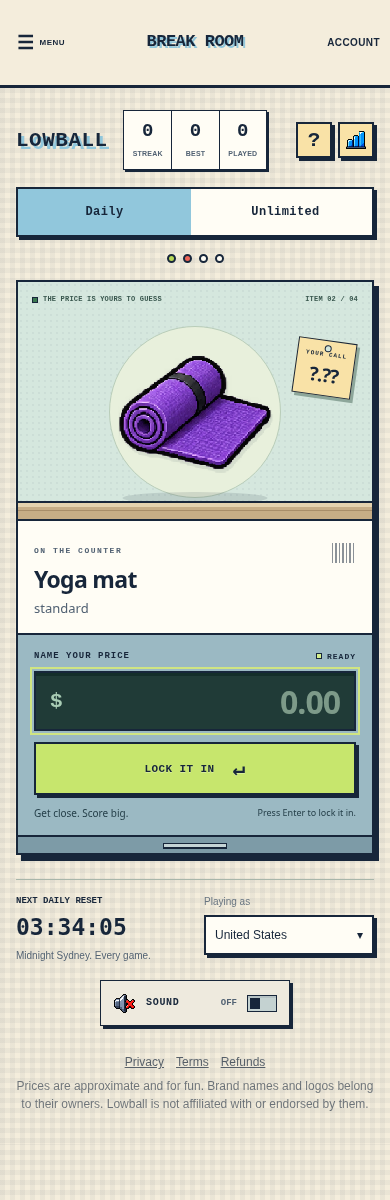
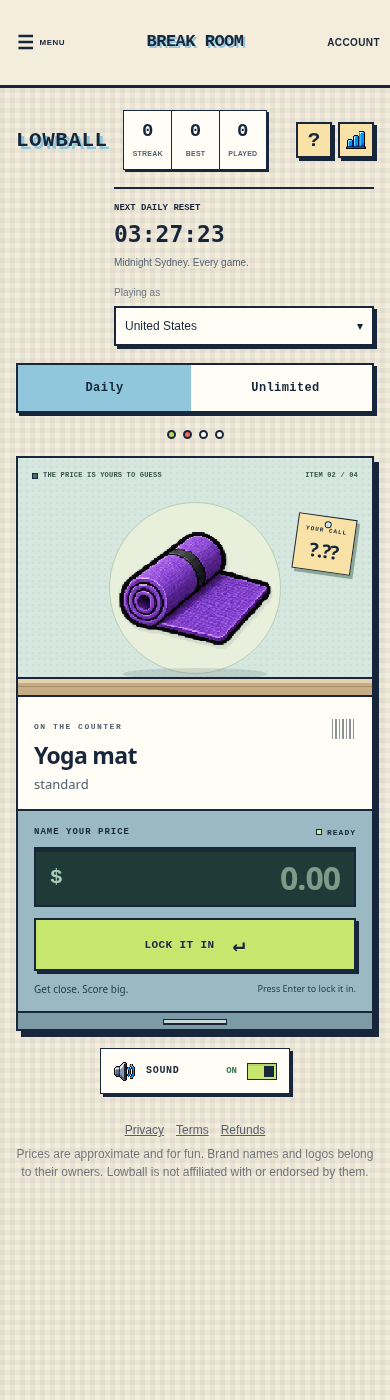
Keep Lowball centred with reset and region in a top-right rail

diff --git a/games/lowball/engine/index.html b/games/lowball/engine/index.html
@@ -608,6 +608,19 @@
 
   </header>
 
+  <section class="session-settings" aria-label="Daily reset and price region">
+  <aside class="live-reset" id="nextDaily" aria-label="Daily reset">NEXT DAILY RESET<strong data-daily-countdown>--:--:--</strong><p>Midnight Sydney. Every game.</p><span class="new-daily-ready" hidden>New daily ready. Tap to play</span></aside>
+
+  <div class="country-row">
+    <span class="country-label">Playing as</span>
+    <div class="cselect" id="cselect">
+      <button type="button" class="cselect-btn" id="cselectBtn" aria-haspopup="listbox" aria-expanded="false"><span id="cselectLabel">Australia</span></button>
+      <ul class="cselect-list" id="cselectList" role="listbox" tabindex="-1" hidden></ul>
+    </div>
+    <select id="countrySelect" hidden></select>
+  </div>
+  </section>
+
   <div class="mode-toggle">
     <button class="mode-btn active" id="normalModeBtn">Daily<span class="rounds"> (4 rounds)</span></button>
     <button class="mode-btn" id="unlimitedModeBtn">Unlimited</button>
@@ -671,18 +684,7 @@
     </div>
   </div>
 
-  <section class="session-settings" aria-label="Daily reset and price region">
-  <aside class="live-reset" id="nextDaily" aria-label="Daily reset">NEXT DAILY RESET<strong data-daily-countdown>--:--:--</strong><p>Midnight Sydney. Every game.</p><span class="new-daily-ready" hidden>New daily ready. Tap to play</span></aside>
 
-  <div class="country-row">
-    <span class="country-label">Playing as</span>
-    <div class="cselect" id="cselect">
-      <button type="button" class="cselect-btn" id="cselectBtn" aria-haspopup="listbox" aria-expanded="false"><span id="cselectLabel">Australia</span></button>
-      <ul class="cselect-list" id="cselectList" role="listbox" tabindex="-1" hidden></ul>
-    </div>
-    <select id="countrySelect" hidden></select>
-  </div>
-  </section>
 
   <button type="button" class="sound-btn" id="soundBtn">Sound: on</button>
 

diff --git a/games/lowball/engine/counter.css b/games/lowball/engine/counter.css
@@ -57,3 +57,9 @@ header{order:0;align-self:stretch}.mode-toggle{order:1;width:100%;align-self:str
 @media(max-width:650px){body{padding:22px 16px}.wrap{gap:17px}.session-settings{gap:18px;padding-top:16px}.session-settings .live-reset{font-size:9px}.session-settings .live-reset strong{font-size:23px}.session-settings .live-reset p{font-size:10px;line-height:1.5}.session-settings .country-label{font-size:10px}.session-settings .cselect-btn{font-size:12px;padding:11px 9px}.session-settings .country-row{gap:8px}.session-settings .cselect-list{font-size:12px}}
 @media(max-width:360px){body{padding-left:12px;padding-right:12px}.session-settings{gap:12px}.session-settings .live-reset{font-size:8px}.session-settings .live-reset strong{font-size:21px}.session-settings .cselect-btn{font-size:11px;padding:11px 8px}}
 .session-settings .live-reset{order:0}.session-settings .country-row{order:1}
+/* A separate top-right utility rail keeps the game itself on the viewport centre line. */
+.wrap{position:relative}
+.session-settings{order:1;grid-template-columns:minmax(0,1fr);align-self:flex-end;width:min(260px,100%);gap:17px;border:0;padding:0;margin:0}
+.session-settings .country-row{max-width:none;justify-self:stretch}.session-settings .live-reset{border-top:2px solid #17263a;padding-top:14px}
+.mode-toggle{order:2}.progress-dots{order:3}.card{order:4}
+@media(min-width:1100px){.wrap{--lowball-column:min(760px,calc(100vw - 448px));max-width:var(--lowball-column)}.session-settings{position:absolute;top:0;left:calc(100% + 24px);width:min(240px,calc((100vw - var(--lowball-column))/2 - 48px))}.mode-toggle{order:1}.progress-dots{order:2}.card{order:3}}

diff --git a/README.md b/README.md
@@ -109,7 +109,7 @@ Run `ARCADE_TEST_URL=http://127.0.0.1:8015 node tests/lowball-art.cjs` against a
 
 ### Lowball counter and Stake tabletop
 
-Lowball's active playing surface is styled by `games/lowball/engine/counter.css`: a large item display on a shop shelf, printed product label, cash-register price input, and a receipt reveal with a stamped verdict and perforated paper edge. Existing generated PNGs, prices, regions, score calculations, and saved rounds are retained. Personal stats sit in the header between the title and utility buttons. Lowball now uses one centred column: the countdown and region selector share a balanced row below the playing surface, and the sound toggle sits at the bottom centre above the legal footer. Enter submits a price and focuses Next; Enter again moves to the next item without skipping the receipt.
+Lowball's active playing surface is styled by `games/lowball/engine/counter.css`: a large item display on a shop shelf, printed product label, cash-register price input, and a receipt reveal with a stamped verdict and perforated paper edge. Existing generated PNGs, prices, regions, score calculations, and saved rounds are retained. Personal stats sit in the header between the title and utility buttons. Lowball now uses one centred column: the countdown sits in a separate top-right rail with the region selector below it, while the sound toggle stays directly below the game at the centre. On narrower screens the settings rail moves above the game to fit without horizontal scrolling. Enter submits a price and focuses Next; Enter again moves to the next item without skipping the receipt.
 
 Stake's active surface is styled by `games/stake/table.css`: textured green felt with a stitched edge, paper question cards and category tabs, a three-chip betting dock, and chip-stack feedback. The countdown is integrated into the question card and turns coral in the last ten seconds. The score tally, 30-second deadline, timeout penalties, Daily/Unlimited state, and shared popup design remain intact. Chips stay circular at every screen width. Keyboard betting/answering retains focus inside the game, and the mode tabs support arrow keys, Home, and End.
 

diff --git a/VALIDATION.md b/VALIDATION.md
@@ -107,3 +107,7 @@ Moved Lowball's personal stats into the title/tools header row. Matched Stake's 
 ### Centred Lowball layout — 19 October 2026
 
 Replaced the offset sidebar layout with one centred column. Header, mode buttons, progress, playing area, settings row, sound toggle and legal footer share the viewport centre line. Countdown/region controls sit together below the game; sound sits beneath them at the bottom centre. Direct browser checks passed at 320, 390, 650, 768, 900, 1024 and 1440px in play and receipt states, including dropdown fit, no overflow, region switching, scoring, retained faceted gems and sound toggling. `tests/smoke.cjs` passed all 532 assertions; `tests/lowball-art.cjs` passed. Updated desktop/mobile full-page previews show the centred layout.
+
+### Lowball top-right reset rail — 19 October 2026
+
+Moved the countdown and region selector into a stacked top-right rail, independent of the centred game column. The sound toggle remains directly below the playing area on the same centre line. Narrow layouts keep the stacked controls above the game. Browser checks passed at 320, 390, 768, 1024, 1100, 1280 and 1440px: centred header/modes/game/sound, countdown above region selector, desktop rail outside the game without shifting its centre, no clipped dropdown or horizontal overflow, region switching, scoring, and retained faceted gems. Updated mobile/desktop previews are in `design/previews/game-polish/`.
